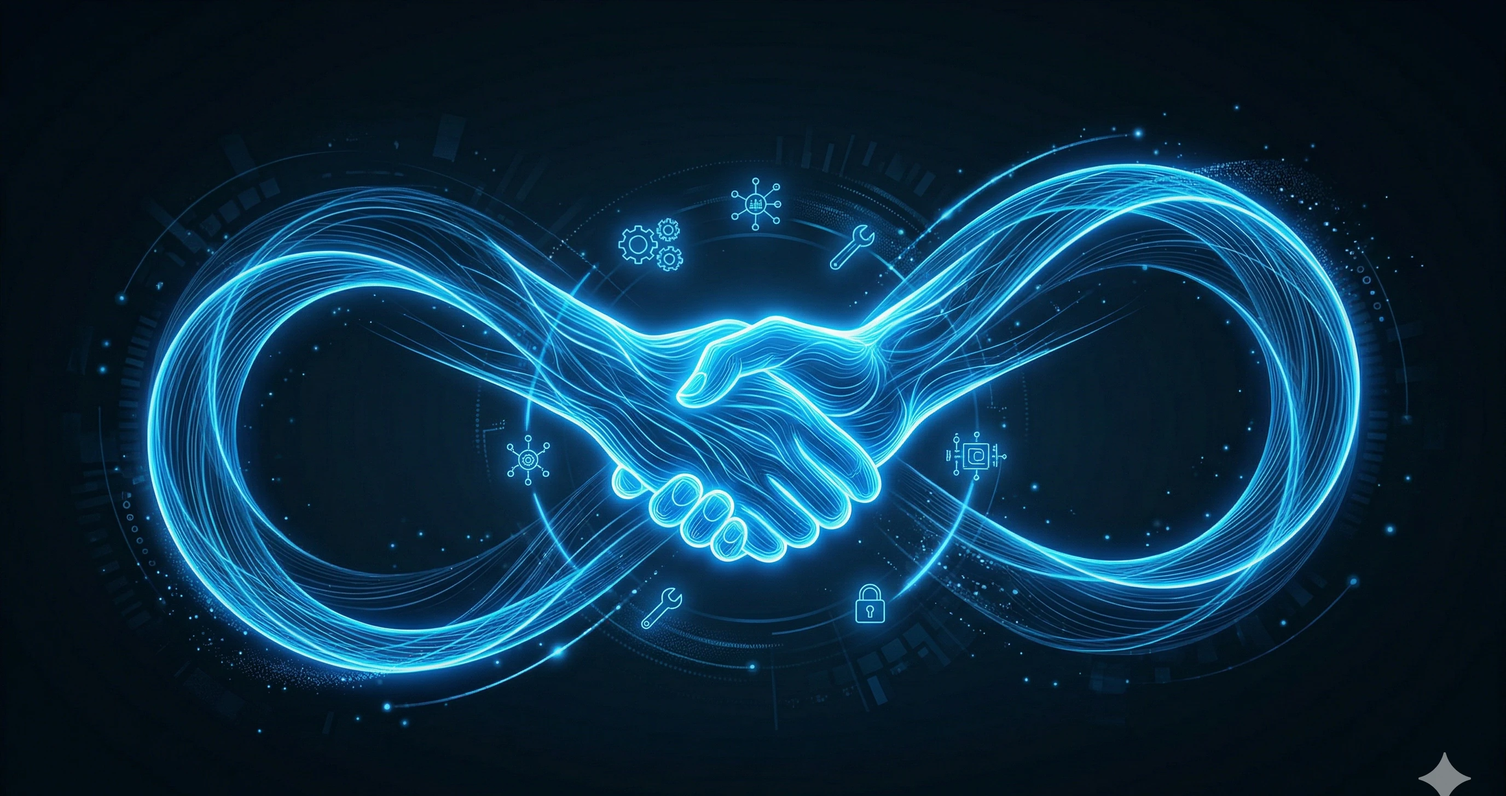
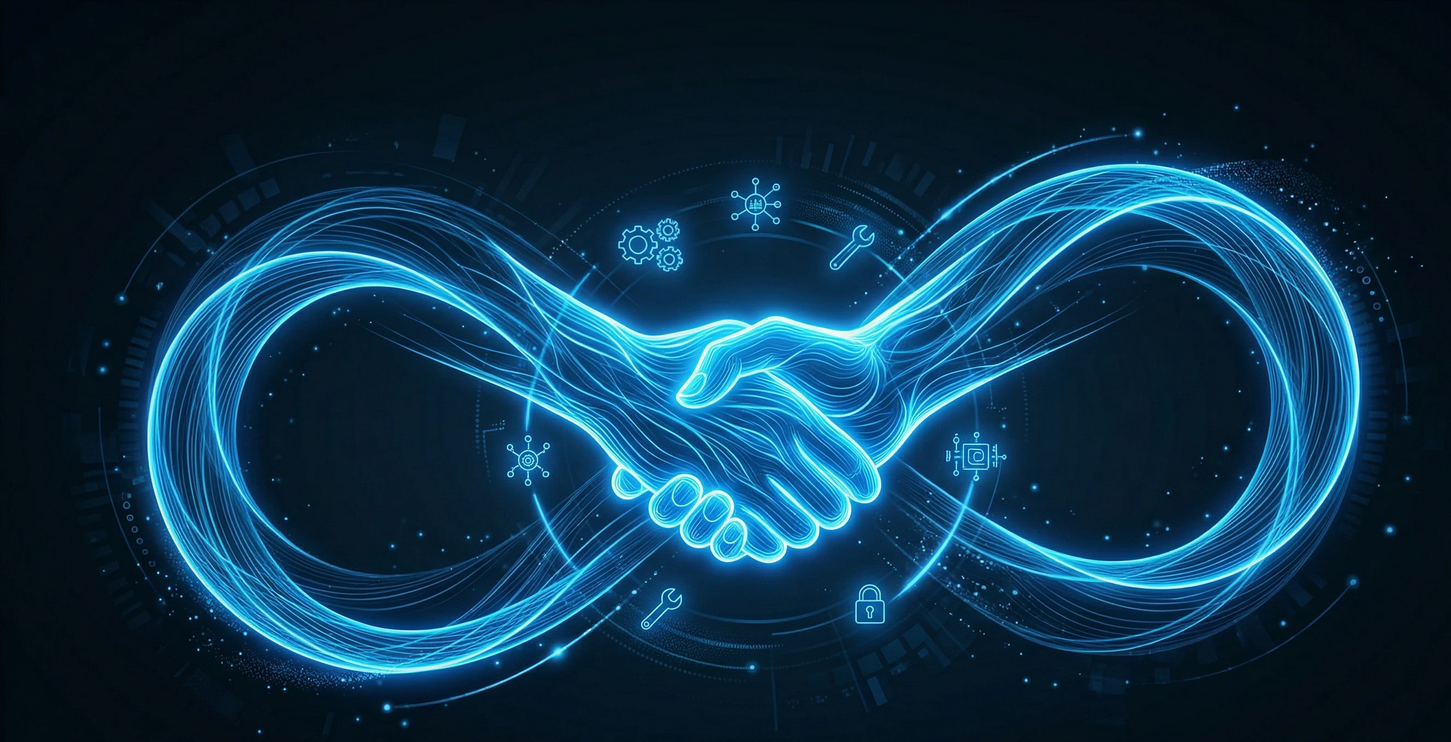
Square nav buttons on case studies, crop Gemini watermarks deeper
Case study nav buttons: changed from round (50% radius, solid blue)
to square (8px radius, subtle blue tint + border) matching the
Why Us section buttons exactly.

Why Us images: cropped additional 100px from bottom AND right edges
to fully eliminate the Gemini star watermark.

diff --git a/src/styles/globals.css b/src/styles/globals.css
@@ -4322,25 +4322,27 @@ button {
 }
 
 .ps-work-nav-btn {
-  width: 36px;
-  height: 36px;
-  border-radius: 50%;
-  background-color: var(--color-primary);
-  color: #ffffff;
-  border: none;
+  width: 40px;
+  height: 40px;
+  border-radius: 8px;
+  background: rgba(13, 149, 232, 0.1);
+  color: #0D95E8;
+  border: 1px solid rgba(13, 149, 232, 0.15);
   cursor: pointer;
   display: flex;
   align-items: center;
   justify-content: center;
   transition:
-    background-color 200ms ease,
-    transform 150ms ease;
+    background-color 220ms ease,
+    border-color 220ms ease,
+    transform 220ms ease;
   flex-shrink: 0;
 }
 
 .ps-work-nav-btn:hover {
-  background-color: var(--color-primary-hover);
-  transform: scale(1.08);
+  background: rgba(13, 149, 232, 0.18);
+  border-color: rgba(13, 149, 232, 0.25);
+  transform: translateY(-1px);
 }
 
 .ps-work-nav-btn:focus-visible {
